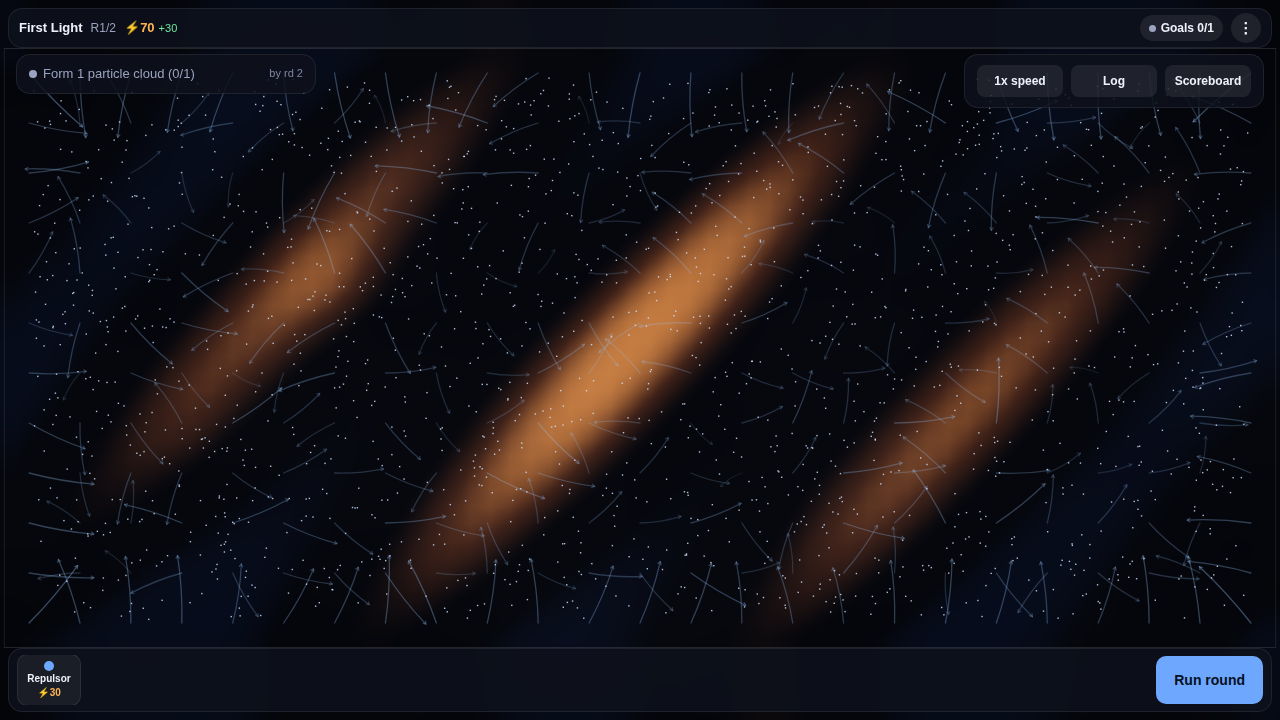
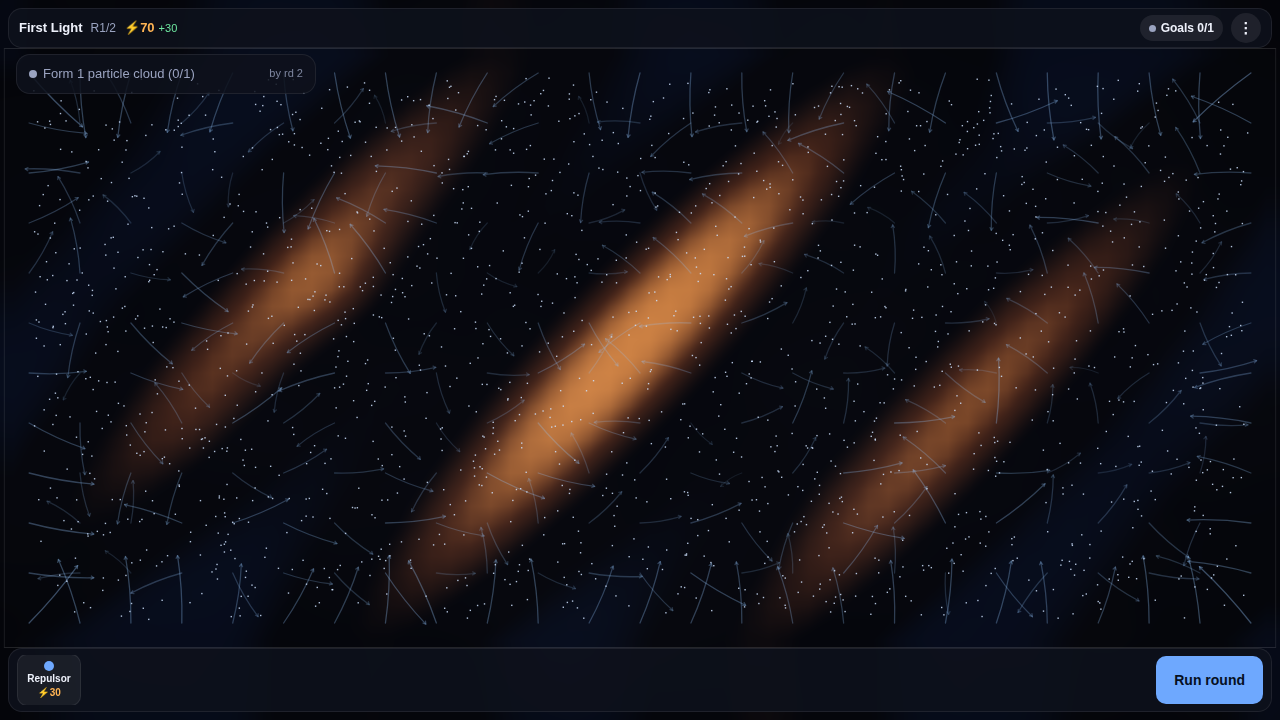
Fix preview/level mismatch, stuck-open HUD drawers, worker fallback
- Level select sizes the world exactly like level start, so procedural
  previews are the levels the player actually gets.
- .dropdown display:flex overrode [hidden]; menu now closes, goals start
  open and stay open until their chip is tapped.
- Level generation falls back to the main thread if workers are blocked.
- Stable worker filename for static hosting; browser verification script.

Claude-Session: https://claude.ai/code/session_01QpyFfUey46TshxAZe5pGq3

Changed region(s): [[0.75, 0.0917, 1.0, 0.1528]]

diff --git a/src/ui/levelSource.ts b/src/ui/levelSource.ts
@@ -36,11 +36,36 @@ function writeLocal(key: string, level: LevelDef) {
 }
 
 let worker: Worker | null = null;
-function getWorker(): Worker {
+let workerBroken = false;
+function getWorker(): Worker | null {
+  if (workerBroken) return null;
   if (!worker) {
-    worker = new Worker(new URL('../levels/procgen.worker.ts', import.meta.url), { type: 'module' });
+    try {
+      worker = new Worker(new URL('../levels/procgen.worker.ts', import.meta.url), { type: 'module' });
+      worker.addEventListener('error', () => {
+        // e.g. a sandbox that blocks workers: everything pending falls back to the main thread
+        workerBroken = true;
+        worker = null;
+        for (const [key, fb] of fallbacks) {
+          fallbacks.delete(key);
+          fb();
+        }
+      });
+    } catch {
+      workerBroken = true;
+      worker = null;
+    }
   }
   return worker;
+}
+/** per-key main-thread fallbacks, run if the worker dies before answering */
+const fallbacks = new Map<string, () => void>();
+
+/** Main-thread generation (blocks for a few seconds); only used when workers are unavailable. */
+async function generateOnMainThread(n: number, world: WorldSize): Promise<LevelDef> {
+  const { getLevelDef } = await import('../levels/catalog');
+  await new Promise((r) => setTimeout(r, 50)); // let the "Charting galaxy…" card paint first
+  return getLevelDef(n, world);
 }
 
 /** Cache-only lookup (memory, then localStorage); never triggers generation. */
@@ -67,34 +92,38 @@ export function getOrGenerate(n: number, world: WorldSize): Promise<LevelDef> {
   const inflight = pending.get(key);
   if (inflight) return inflight;
   const p = new Promise<LevelDef>((resolve) => {
+    const finish = (level: LevelDef) => {
+      pending.delete(key);
+      fallbacks.delete(key);
+      memCache.set(key, level);
+      writeLocal(key, level);
+      resolve(level);
+      for (const l of listeners) l();
+    };
+    const runFallback = () => {
+      generateOnMainThread(n, world).then(finish, (err) => {
+        console.warn('[levelSource] main-thread generation failed for level', n, err);
+        finish(placeholderLevel(n));
+      });
+    };
     const w = getWorker();
+    if (!w) {
+      runFallback();
+      return;
+    }
+    fallbacks.set(key, () => {
+      w.removeEventListener('message', onMsg);
+      runFallback();
+    });
     const onMsg = (ev: MessageEvent<{ n: number; key: string; level?: LevelDef; error?: string }>) => {
       if (ev.data.key !== key) return;
       w.removeEventListener('message', onMsg);
-      pending.delete(key);
       if (ev.data.level) {
-        memCache.set(key, ev.data.level);
-        writeLocal(key, ev.data.level);
-        resolve(ev.data.level);
-        for (const l of listeners) l();
+        finish(ev.data.level);
       } else {
         console.warn('[levelSource] generation failed for level', n, ev.data.error);
         // never leave the caller hanging: fall through with a minimal placeholder
-        resolve({
-          id: n,
-          name: `Level ${n}`,
-          intro: 'A region of the nursery.',
-          seed: n,
-          particleCount: 1800,
-          initialMix: { H: 1 },
-          rounds: 3,
-          ticksPerRound: 600,
-          startingEnergy: 80,
-          incomePerRound: 40,
-          ambientGravity: 0.3,
-          tools: ['repulsor', 'wall'],
-          goals: [{ type: 'clouds', count: 1, byRound: 3, label: 'Form 1 particle cloud' }],
-        });
+        finish(placeholderLevel(n));
       }
     };
     w.addEventListener('message', onMsg);
@@ -102,6 +131,24 @@ export function getOrGenerate(n: number, world: WorldSize): Promise<LevelDef> {
   });
   pending.set(key, p);
   return p;
+}
+
+function placeholderLevel(n: number): LevelDef {
+  return {
+    id: n,
+    name: `Level ${n}`,
+    intro: 'A region of the nursery.',
+    seed: n,
+    particleCount: 1800,
+    initialMix: { H: 1 },
+    rounds: 3,
+    ticksPerRound: 600,
+    startingEnergy: 80,
+    incomePerRound: 40,
+    ambientGravity: 0.3,
+    tools: ['repulsor', 'wall'],
+    goals: [{ type: 'clouds', count: 1, byRound: 3, label: 'Form 1 particle cloud' }],
+  };
 }
 
 /** Fire-and-forget: used to pre-chart upcoming levels without the player waiting on them. */

diff --git a/src/main.ts b/src/main.ts
@@ -306,6 +306,17 @@ async function boot() {
     return { x: 0, y, w, h: Math.max(40, bottom - y) };
   }
 
+  /** Build the HUD DOM shell (throwaway callbacks) to measure this viewport's top/bottom bar
+   * heights, and size the world to exactly fill the space between them (worldSizeForAspect keeps
+   * board area constant so difficulty stays comparable). Leaves the shell in uiRoot; callers
+   * replace it. */
+  function measureGameWorld() {
+    uiRoot.innerHTML = '';
+    createHud(uiRoot, NOOP_HUD_CALLBACKS);
+    const boardRect = computeBoardRect();
+    return worldSizeForAspect(boardRect.w / boardRect.h);
+  }
+
   function showLevelSelect() {
     if (session) {
       backdropGame = session.game;
@@ -318,7 +329,9 @@ async function boot() {
     }
     sceneCanvas.style.display = 'none';
     const unlocked = getUnlocked();
-    const world = worldSizeForAspect(window.innerWidth / window.innerHeight);
+    // Same world size startLevel() will use (measured off a throwaway HUD shell), so the
+    // procedural previews shown here are exactly the levels the player gets.
+    const world = measureGameWorld();
     const handcrafted = levelSource.handcraftedCount();
     levelSource.prefetch(unlocked + 1, world);
     levelSource.prefetch(unlocked + 2, world);
@@ -344,9 +357,7 @@ async function boot() {
     // Build the HUD DOM shell first (throwaway callbacks) purely to measure this viewport's
     // compact top/bottom bar heights, then size the world to exactly fill the space between
     // them (worldSizeForAspect keeps board area constant so difficulty stays comparable).
-    createHud(uiRoot, NOOP_HUD_CALLBACKS);
-    const boardRect = computeBoardRect();
-    const world = worldSizeForAspect(boardRect.w / boardRect.h);
+    const world = measureGameWorld();
 
     const handcrafted = levelSource.handcraftedCount();
     const inventory = loadInventory();

diff --git a/src/ui/hud.ts b/src/ui/hud.ts
@@ -113,14 +113,11 @@ export function createHud(root: HTMLElement, cb: HudCallbacks) {
 
   const toaster = createToastManager(el.toasts);
 
-  let goalsOpen = false;
+  // Goals start expanded so the player sees what to do; the chip collapses them.
+  let goalsOpen = true;
   let menuOpen = false;
-  function closeDropdowns() {
-    goalsOpen = false;
-    menuOpen = false;
-    el.goalsDrawer.hidden = true;
-    el.menuDrawer.hidden = true;
-  }
+  el.goalsDrawer.hidden = false;
+  el.menuDrawer.hidden = true;
   el.goalsChip.addEventListener('click', (ev) => {
     ev.stopPropagation();
     goalsOpen = !goalsOpen;
@@ -135,7 +132,11 @@ export function createHud(root: HTMLElement, cb: HudCallbacks) {
     el.menuDrawer.hidden = !menuOpen;
     el.goalsDrawer.hidden = true;
   });
-  root.addEventListener('click', () => closeDropdowns());
+  // Outside clicks close the menu only; the goals list stays until its chip is tapped.
+  root.addEventListener('click', () => {
+    menuOpen = false;
+    el.menuDrawer.hidden = true;
+  });
   el.goalsDrawer.addEventListener('click', (ev) => ev.stopPropagation());
   el.menuDrawer.addEventListener('click', (ev) => ev.stopPropagation());
 

diff --git a/vite.config.ts b/vite.config.ts
@@ -3,6 +3,10 @@ import { defineConfig } from 'vite';
 // Unhashed asset names keep the artifact file map stable across republishes.
 export default defineConfig({
   base: process.env.GH_PAGES ? '/Gravity-Game/' : './',
+  worker: {
+    format: 'es',
+    rollupOptions: { output: { entryFileNames: 'assets/[name].js', chunkFileNames: 'assets/[name].js' } },
+  },
   build: {
     target: 'es2022',
     rollupOptions: {

diff --git a/src/style.css b/src/style.css
@@ -210,6 +210,11 @@ a {
   gap: 8px;
 }
 
+/* author display:flex above would otherwise override the hidden attribute */
+.dropdown[hidden] {
+  display: none;
+}
+
 .dropdown.goals-drawer {
   left: 8px;
   right: auto;
